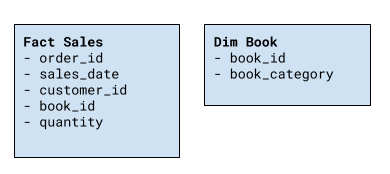
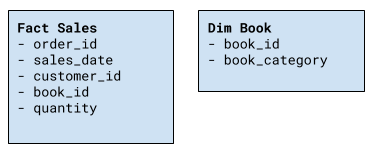
event sourcing dimensional modeling 7

Changed region(s): [[0.0, 0.0516, 0.4681, 0.929], [0.4973, 0.0516, 0.9947, 0.6194]]

diff --git a/_posts/2019-07-14-event-sourcing-dimensional-modeling.md b/_posts/2019-07-14-event-sourcing-dimensional-modeling.md
@@ -48,7 +48,7 @@ Let say, the definition of sales is when the payment is succeed. Then, the sales
 4. Identify facts and measures: Book quantity
 
 See simplified dimensional design below (assume dim book is using SCD type 1, overwrite only latest state):
-<figure class="half">
+<figure class="third">
   <img src="/assets/images/20190714_factdim.png">
   <figcaption>Fact and Dimension</figcaption>
 </figure>
